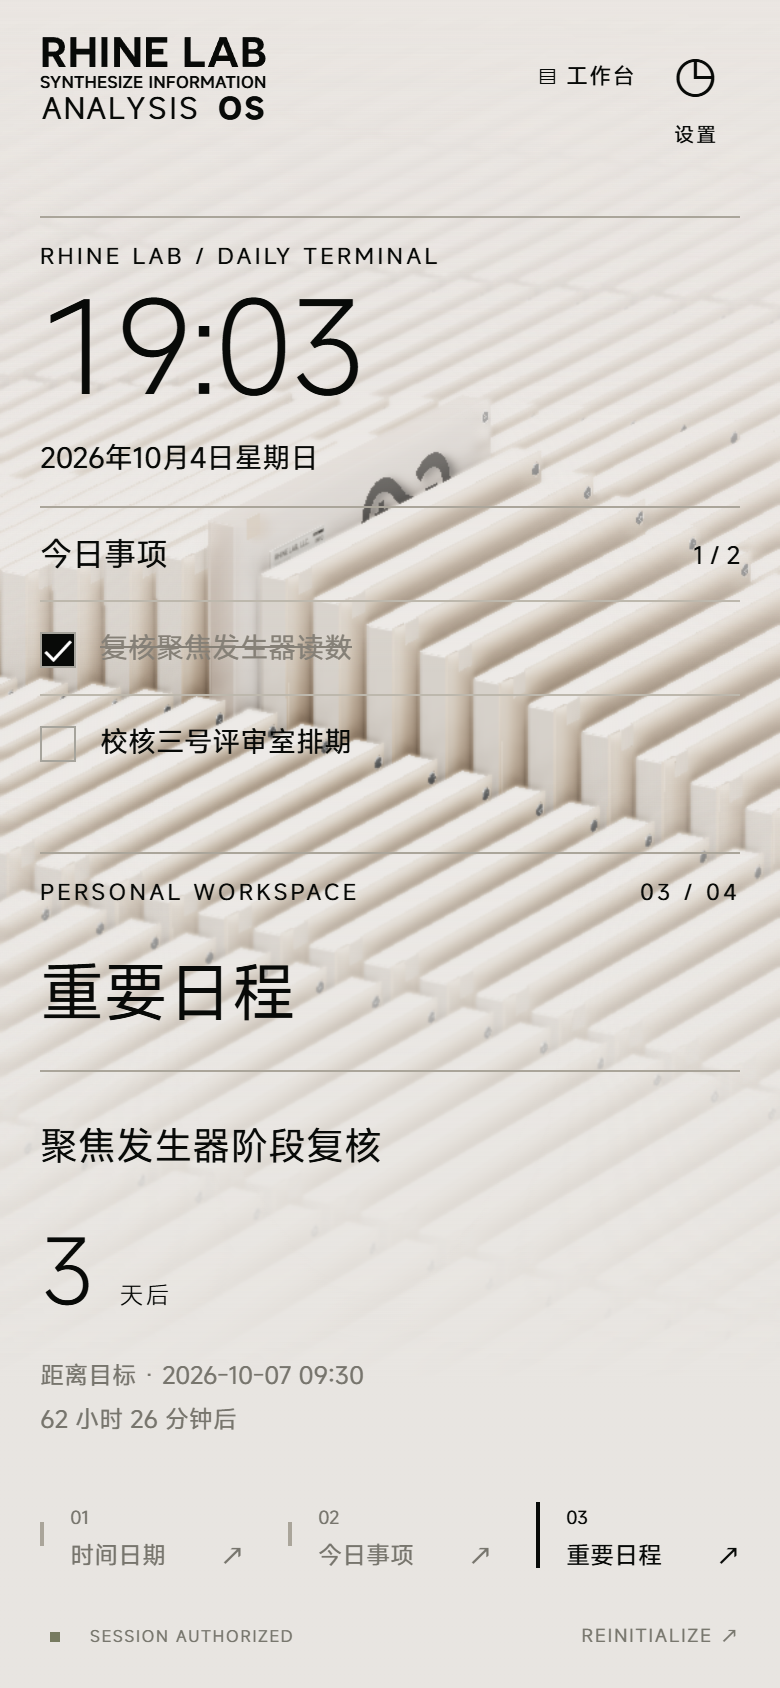
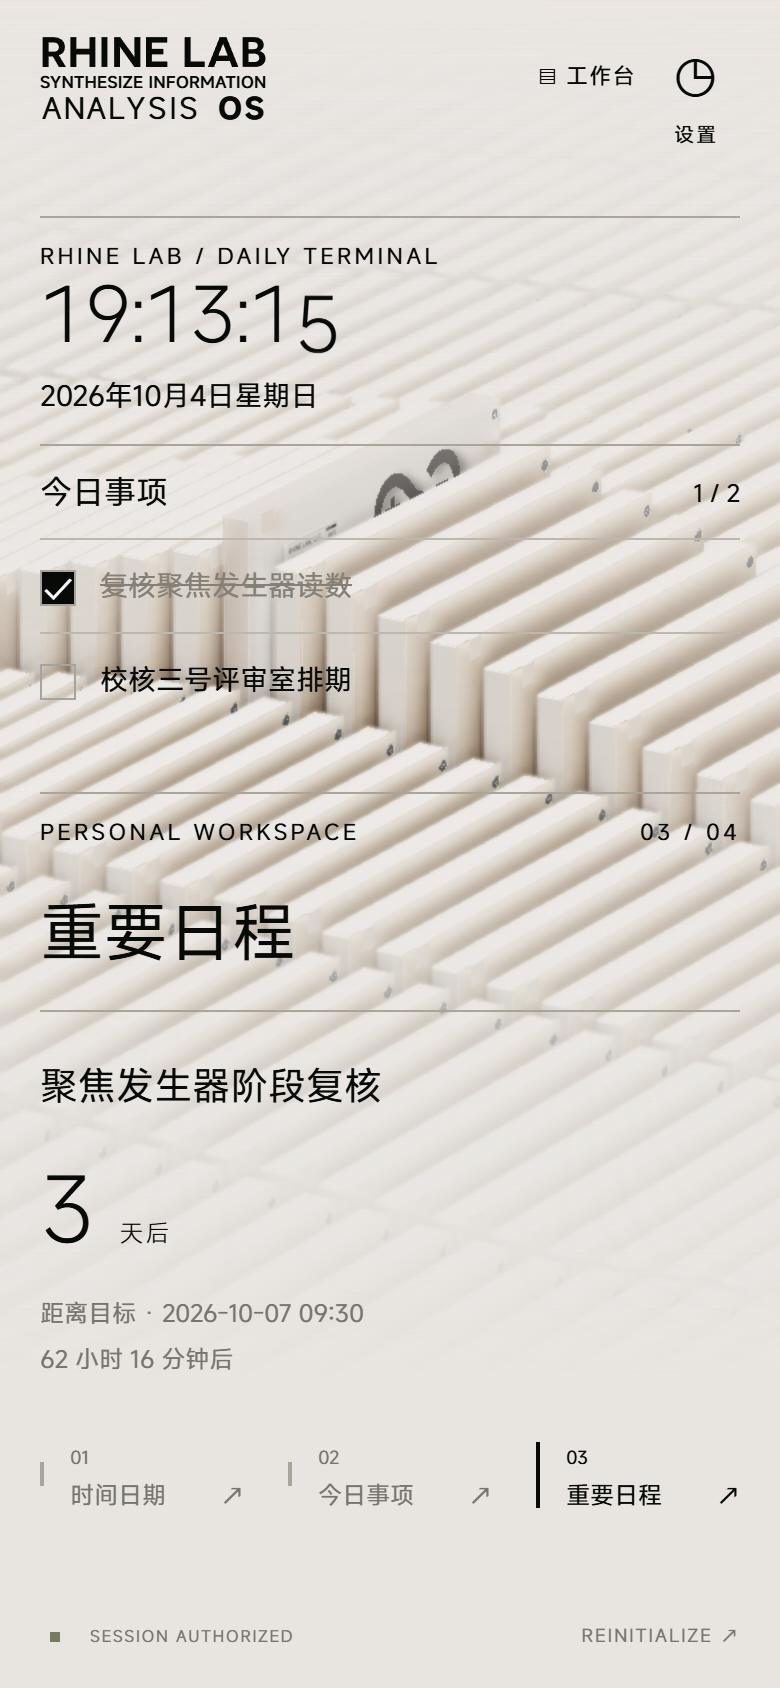
feat(workbench): read the clock to the second
The bench clock showed HH:MM; it now reads the machine's own time to the second (HH:MM:SS, en-GB 24h). Eight characters instead of five meant re-slotting the numeral: the base clamp drops to 30-70px with matching steps at 1000px and 700px, so the reading still fits the left column and does not crowd the date or the queue.

Verified in Edge 1600x900 and 390x844: the clock matched the machine at 19:13:01 and changed a second later, the footer clock agreed, lanes stayed at 01-04, no horizontal overflow and no page errors. The stopwatch lane built for the earlier misreading is parked on local branch feature/stopwatch-lane (146e101), not merged.

Evidence in verification/WORKBENCH-WEB.md and verification/workbench-web/.

diff --git a/src/workbench.css b/src/workbench.css
@@ -16,7 +16,9 @@
 [data-workbench="true"] .system-nav > button:not(.settings-button):not([data-workbench-flip]) { display: none; }
 .wb-overview { position: absolute; top: 24%; left: var(--edge); width: min(29%, 400px); }
 .wb-kicker { font-size: 11px; letter-spacing: 1.8px; border-top: 1px solid #aaa59a; padding-top: 12px; display: flex; justify-content: space-between; gap: 12px; }
-.wb-clock { font-size: clamp(52px, 6vw, 112px); line-height: 1.18; font-weight: 300; letter-spacing: -5px; font-variant-numeric: tabular-nums; }
+/* The clock carries seconds, so the numeral is sized for eight characters
+   instead of five and must still fit the overview column at every width. */
+.wb-clock { font-size: clamp(30px, 3.7vw, 70px); line-height: 1.18; font-weight: 300; letter-spacing: -2px; font-variant-numeric: tabular-nums; }
 .wb-date { font-size: 14px; margin-top: 8px; }
 .wb-today { margin-top: 36px; padding: 18px 0; background: none; border-top: 1px solid #aaa59a; pointer-events: auto; }
 .wb-heading { display: flex; align-items: center; justify-content: space-between; margin-bottom: 12px; }
@@ -83,18 +85,18 @@
 @media (max-width: 1000px) {
   .wb-overview { top: 20%; width: 35%; }
   .wb-module { top: 22%; width: 45%; padding: 0; }
-  .wb-clock { letter-spacing: -2px; }
+  .wb-clock { font-size: clamp(28px, 4.2vw, 44px); letter-spacing: -1.5px; }
   .wb-today { margin-top: 15px; padding: 12px 0; }
   .wb-nav { bottom: 10%; }
   .wb-nav button { width: 110px; }
 }
 @media (max-height: 650px) and (min-width: 701px) {
-  .wb-overview { top: 22%; }.wb-module { top: 20%; }.wb-clock { font-size: 48px; }.wb-today { margin-top: 12px; }.wb-task { padding: 7px 0; }.wb-title { margin: 12px 0; font-size: 22px; }.wb-large { font-size: 48px; }.wb-nav { bottom: 8%; }.wb-muted { margin-top: 8px; }
+  .wb-overview { top: 22%; }.wb-module { top: 20%; }.wb-clock { font-size: 32px; }.wb-today { margin-top: 12px; }.wb-task { padding: 7px 0; }.wb-title { margin: 12px 0; font-size: 22px; }.wb-large { font-size: 48px; }.wb-nav { bottom: 8%; }.wb-muted { margin-top: 8px; }
 }
 @media (max-width: 700px) {
   .workbench { top: 100px; bottom: 50px; overflow-y: auto; pointer-events: auto; padding: 0 var(--edge); }
   .wb-overview, .wb-module { position: static; width: auto; }.wb-module { margin-top: 20px; }.wb-overview { padding-top: 8px; }
-  .wb-nav { position: static; flex-wrap: wrap; margin-top: 20px; padding-bottom: 16px; justify-content: flex-start; }.wb-nav button { flex: 1 0 27%; }.wb-clock { font-size: 64px; }
+  .wb-nav { position: static; flex-wrap: wrap; margin-top: 20px; padding-bottom: 16px; justify-content: flex-start; }.wb-nav button { flex: 1 0 27%; }.wb-clock { font-size: 38px; letter-spacing: -1px; }
 }
 .wb-media > div:last-child { min-width: 0; flex: 1; }
 .wb-media :is(h3, p) { max-width: 100%; overflow: hidden; }

diff --git a/src/workbench.ts b/src/workbench.ts
@@ -220,7 +220,8 @@ export class Workbench {
     this.lastSecond = Math.floor(now / 1000);
     this.rollDay(); this.settle(now);
     const date = new Date(now);
-    rollText(this.root.querySelector<HTMLElement>(".wb-clock")!, date.toLocaleTimeString("en-GB", { hour: "2-digit", minute: "2-digit" }), this.motion.rollingText);
+    // The terminal reads its own machine's clock, to the second.
+    rollText(this.root.querySelector<HTMLElement>(".wb-clock")!, date.toLocaleTimeString("en-GB", { hour12: false, hour: "2-digit", minute: "2-digit", second: "2-digit" }), this.motion.rollingText);
     this.root.querySelector(".wb-date")!.textContent = date.toLocaleDateString("zh-CN", { year: "numeric", month: "long", day: "numeric", weekday: "long" });
     if (this.lane === 0 || this.lane === 2) this.renderPanel();
     const timer = this.root.querySelector(".wb-timer-digits");

diff --git a/verification/WORKBENCH-WEB.md b/verification/WORKBENCH-WEB.md
@@ -28,20 +28,23 @@
 | --- | --- |
 | 开场选择 | 三项：档案表 / 人员表 / 工作台 |
 | 工作台可进入 | 顶栏「▤ 工作台」进入；进入后 `#archive-ui` 为 inert |
-| 真实时钟 | 时钟与日期取本机时间（页脚同为 18:59:58），日期 `2026年10月4日星期日` |
+| 真实时钟 | 时钟与日期取本机时间，**读到秒**（`19:13:01`，与页脚时钟同值；下一秒实测变为 `19:13:00/01`）。字号按 8 个字符重新定档（base `clamp(30px,3.7vw,70px)`、≤1000px、≤700px 38px），加秒后仍落在左侧栏内，未挤压日期与条目 |
 | 模块与编号 | 只有 4 格：01 时间日期 / 02 今日事项 / 03 重要日程 / 04 专注计时，索引 `01 / 04`；**没有媒体格** |
 | 条目 | 在设置里填两条 → 工作台列出两条；点一下打勾，计数 `1 / 2` |
 | 值守计时 | 设为 12 分钟并开始 → `值守 · 进行中 11:58`，按钮暂停/重置/转入间隙 |
 | 排期投影 | `聚焦发生器阶段复核 3天后 / 2026-10-07 09:30 / 62 小时 29 分钟后`（今天 10-04，按本机时钟倒数） |
 | 窄屏 | 390×844 无横向溢出；亮色下配色跟随 `--theme-*` |
 | 切回档案 | 顶栏开关切回后工作台 `hidden`、`#archive-ui` 恢复非 inert |
-| 刷新 | 条目与打勾状态保留（独立键 + 当天状态键） |
+| 刷新 | 条目与打勾状态保留（独立键 + 当天状态键）；值守计时刷新后仍在走（实测 `11:48 · 进行中`，绝对截止时间） |
 | 控制台 | 无页面异常 |
 | 壁纸回归 | `npm run build:wallpaper` 通过（840 文件 / 42.0 MiB） |
 
 ### 已知缺口
 
-- **刷新后计时继续**这一条本轮没有被探针捕捉到：脚本刷新后停在「时间日期」格，没有再去点「专注计时」格。计时用的是壁纸端同一段代码（`restoreTimer` + 绝对截止时间）与同一个存储键，条目与打勾状态已证明跨刷新保留；要单独取证需再跑一次脚本并加一步点击。
-- 「没有媒体格」的证据是可见导航只有 4 项且索引为 `01 / 04`；探针里那个 `mediaLane` 字段查的是 DOM 里是否存在该按钮（隐藏的也算），因此它显示 `true`，属于探针写法问题，不代表这一格还在。
+- 「没有媒体格」的证据是可见导航只有 4 项（01–04）且索引为 `04 / 04`；探针里那个 `mediaLane` 字段查的是 DOM 里是否存在该按钮（隐藏的也算），因此它显示 `true`，属于探针写法问题，不代表这一格还在。
 - 未在真实手机/Safari 上验证；未做逐像素设计核对。
 - 工作台的开关状态不随刷新保留（壁纸端由宿主属性恢复，网页端本轮未写入续看记录）；刷新后停留在档案展示，从顶栏或开场选择再进。
+
+## 秒表另存分支（未合并）
+
+中途按「加秒表」做过一版第六格：`idle/running/paused` 状态机、绝对时间持久化、12 条分段、`MM:SS` 读数，以及第六格必需的「格子数多于阵列列数」防护。随后用户澄清要的是**时钟读秒**，不是秒表，所以那版停在本地分支 `feature/stopwatch-lane`（提交 `146e101`）：未并入 main、未推送。main 上的那个防护判断也一并撤掉——没有第六格就不需要它；哪天要捡回秒表，`columnMemory[lane] !== undefined` 必须跟着一起回来（否则点该格会去取不存在的档案列并抛 `undefined.category`）。

diff --git a/AGENTS.md b/AGENTS.md
@@ -139,7 +139,9 @@
 - 复用壁纸端的工作台本体（`src/workbench.ts` 等），实现方式是**解除 `if (isWallpaper)` 门禁 + 换数据源**，不重写、不建第二套渲染器。
 - 新增 `src/workbench-source.ts`：把宿主属性的同一袋数据从本机拼出来，广播**同一个 `rhine-wallpaper-properties` 事件**。条目（最多 3 条）、值守/间隙时长、七项显示开关存 `localStorage["rhine-workbench-web-v1"]`（与壁纸端事项语义不同，独立键；`rhine-workbench-v1` 继续只放当天完成状态与计时）。排期取该账号的 `content/assignments.json` 槽位，把 `MM-DD HH:MM` 投影到**下一个该日期**再交给原倒计时模块——设定数据仍不随真实时钟变化，倒数跟着本机时钟走。
 - 入口：开场选择第三项「工作台」，以及顶栏「▤ 工作台」开关；工作台是**阵列上的另一种视图**（阵列保持选中并被 inert），不是浮层。`[data-workbench="true"] .system-nav > button` 的隐藏规则**豁免 `[data-workbench-flip]`**，否则进去就出不来。底部导航编号跟随**实际可用**槽位（浏览器少一格，原写法会跳号 01 02 03 05）。
+- 时钟**读到秒**（`HH:MM:SS`，`en-GB` 24 小时制），取本机时间；数字从 5 位变 8 位，所以 `.wb-clock` 的字号重新定过档（base `clamp(30px,3.7vw,70px)`，≤1000px 与 ≤700px 各一档），以后改动它要连带确认左侧栏没被撑破。
 - 编辑在**终端设置**里（`settingsMarkup()` 的网页分支：三个条目、两个时长、七项开关），工作台表面只有「点一下打勾」一种交互，与壁纸端一致。壁纸端文案与属性来源不变。
+- 秒表那版停在本地分支 `feature/stopwatch-lane`（提交 `146e101`），未合并未推送；捡回它时必须连带 `columnMemory[lane] !== undefined` 的防护，见 verification/WORKBENCH-WEB.md。
 - 不搬：界面边距、HUD 曲面/鼠标追踪、自定义壁纸等宿主实验项。已知缺口与验证见 verification/WORKBENCH-WEB.md。
 
 ## 登录与凭据
